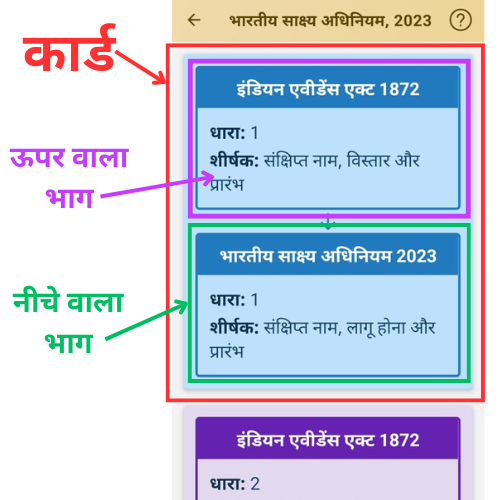
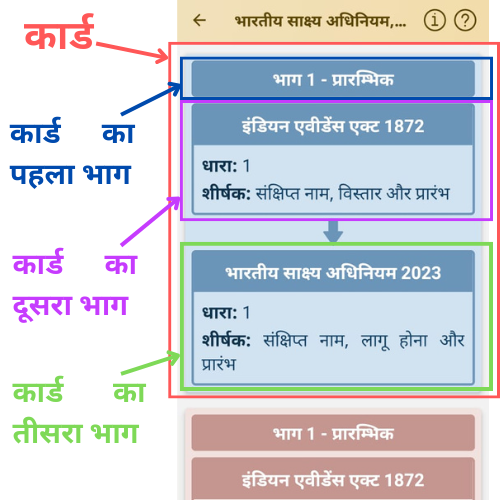
refactor: update howTo data and images

diff --git a/data/sakshyaAdiniyam/howToUseData.js b/data/sakshyaAdiniyam/howToUseData.js
@@ -1,30 +1,46 @@
 export const howToUseSakshyaAdhiniyam = [
-    {
-      id: 1,
-      imgUr: require("../../assets/images/sakshyaAdhiniyamHowToImage_1.png"),
-      title: "भारतीय साक्ष्य अधिनियम, 2023 की स्क्रीन पर उपस्थित कार्ड्स का विवरण",
-      content:
-        'भारतीय साक्ष्य अधिनियम 2023 की स्क्रीन पर आप दोनों कानूनों की सभी धाराएँ दर्शाने वाले कार्ड्स को देख सकते हैं, और अधिक धाराओं को दर्शाने वाले कार्ड्स देखने के लिए आप स्क्रीन को नीचे स्क्रॉल कर सकते हैं। स्क्रीन पर विभिन्न रंगों के कार्ड दिखाई देंगे, जिनमें प्रत्येक कार्ड "इंडियन एवीडेंस एक्ट 1872" और भारतीय साक्ष्य अधिनियम 2023 से संबंधित जानकारी को दर्शाता है। प्रत्येक कार्ड के दो भाग हैं – ऊपर वाला भाग "इंडियन एवीडेंस एक्ट 1872" को दर्शाता है, और नीचे वाला भाग "भारतीय साक्ष्य अधिनियम 2023" की जानकारी प्रदान करता है। आप इसे नीचे दी गई छवि से बेहतर समझ सकते हैं।',
-    },
-    {
-      id: 2,
-      imgUr: require("../../assets/images/sakshyaAdhiniyamHowToImage_2.png"),
-      title: "सर्च बॉक्स के उपयोग से विशेष धारा कैसे खोजें?",
-      content:
-        'भारतीय साक्ष्य अधिनियम 2023 की नई धारा खोजने के लिए आप स्क्रीन के नीचे दिए गए सर्च बॉक्स का उपयोग कर सकते हैं। यदि आपको "भारतीय साक्ष्य अधिनियम 2023" की कोई विशेष धारा खोजनी है, तो आपको सर्च बॉक्स में पुराने "इंडियन एवीडेंस एक्ट 1872" की संबंधित धारा डालनी होगी, सर्च बॉक्स स्क्रीन में नीचे स्थित है। जैसे ही आप पुराने "इंडियन एवीडेंस एक्ट 1872" की धारा सर्च बॉक्स में डालते हैं, उस धारा और उसकी नई धारा वाला कार्ड स्क्रीन पर दिखाई देगा। आप इसे नीचे दी गई छवि से बेहतर समझ सकते हैं।',
-    },
-    {
-      id: 3,
-      imgUr: require("../../assets/images/sakshyaAdhiniyamHowToImage_3.png"),
-      title: "हिंदी कीबोर्ड का उपयोग कैसे करें?",
-      content:
-        'सर्च बॉक्स के साथ ही हिंदी कीबोर्ड का विकल्प भी दिया गया है। सर्च बॉक्स के दाईं ओर एक बटन है, जिसे क्लिक करके आप हिंदी कीबोर्ड प्राप्त कर सकते हैं। इस हिंदी कीबोर्ड में "क", "ख", "ग", "घ", "ङ", "च", "छ" जैसे आवश्यक हिंदी अक्षर हैं, जिनका उपयोग आप धारा जैसे 45क को खोजने के लिए कर सकते हैं। आप इसे नीचे दी गई छवि से बेहतर समझ सकते हैं।',
-    },
-    {
-      id: 4,
-      imgUr: require("../../assets/images/sakshyaAdhiniyamHowToImage_4.png"),
-      title: "सर्च बॉक्स में अमान्य धारा दर्ज करने पर त्रुटि संदेश!",
-      content:
-        "यदि उपयोगकर्ता सर्च बॉक्स में अमान्य धारा दर्ज करता है, तो उसे एक त्रुटि संदेश द्वारा सूचित किया जाएगा कि दर्ज की गई धारा अमान्य है और कृपया सही धारा दर्ज करें। यह संदेश उपयोगकर्ता को यह सुनिश्चित करने में मदद करेगा कि वह सही जानकारी प्राप्त करने के लिए सर्च बॉक्स में मान्य धारा ही दर्ज करे। आप इसे नीचे दी गई छवि से बेहतर समझ सकते हैं।",
-    },
-  ];
+  {
+    id: 1,
+    imgUr: require("../../assets/images/sakshyaAdhiniyamHowToImage_1.png"),
+    title:
+      "भारतीय साक्ष्य अधिनियम, 2023 की स्क्रीन पर उपस्थित कार्ड्स का विवरण",
+    content:
+      'भारतीय साक्ष्य अधिनियम 2023 की स्क्रीन पर आप दोनों कानूनों की सभी धाराएँ दर्शाने वाले कार्ड्स को देख सकते हैं, और अधिक धाराओं को दर्शाने वाले कार्ड्स देखने के लिए आप स्क्रीन को नीचे स्क्रॉल कर सकते हैं। स्क्रीन पर विभिन्न रंगों के कार्ड दिखाई देंगे, जिनमें प्रत्येक कार्ड "इंडियन एवीडेंस एक्ट 1872" और भारतीय साक्ष्य अधिनियम 2023 से संबंधित जानकारी को दर्शाता है। प्रत्येक कार्ड के तीन भाग हैं – पहला भाग यह दर्शाता है कि दोनों धाराएँ किस संबंधित कानून के किस भाग का हिस्सा हैं, कार्ड दूसरा भाग "इंडियन एवीडेंस एक्ट 1872" को दर्शाता है, और कार्ड का तीसरा भाग "भारतीय साक्ष्य अधिनियम 2023" की जानकारी प्रदान करता है। आप इसे नीचे दी गई छवि से बेहतर समझ सकते हैं।',
+  },
+  {
+    id: 2,
+    imgUr: require("../../assets/images/sakshyaAdhiniyamHowToImage_2.png"),
+    title: "सर्च बॉक्स के उपयोग से विशेष धारा कैसे खोजें?",
+    content:
+      'भारतीय साक्ष्य अधिनियम 2023 की नई धारा खोजने के लिए आप स्क्रीन के नीचे दिए गए सर्च बॉक्स का उपयोग कर सकते हैं। यदि आपको "भारतीय साक्ष्य अधिनियम 2023" की कोई विशेष धारा खोजनी है, तो आपको सर्च बॉक्स में पुराने "इंडियन एवीडेंस एक्ट 1872" की संबंधित धारा डालनी होगी, सर्च बॉक्स स्क्रीन में नीचे स्थित है। जैसे ही आप पुराने "इंडियन एवीडेंस एक्ट 1872" की धारा सर्च बॉक्स में डालते हैं, उस धारा और उसकी नई धारा वाला कार्ड स्क्रीन पर दिखाई देगा। आप इसे नीचे दी गई छवि से बेहतर समझ सकते हैं।',
+  },
+  {
+    id: 3,
+    imgUr: require("../../assets/images/sakshyaAdhiniyamHowToImage_3.png"),
+    title: "हिंदी कीबोर्ड का उपयोग कैसे करें?",
+    content:
+      'सर्च बॉक्स के साथ ही हिंदी कीबोर्ड का विकल्प भी दिया गया है। सर्च बॉक्स के दाईं ओर एक बटन है, जिसे क्लिक करके आप हिंदी कीबोर्ड प्राप्त कर सकते हैं। इस हिंदी कीबोर्ड में "क", "ख", "ग", "घ", "ङ", "च", "छ" जैसे आवश्यक हिंदी अक्षर हैं, जिनका उपयोग आप धारा जैसे 45क को खोजने के लिए कर सकते हैं। आप इसे नीचे दी गई छवि से बेहतर समझ सकते हैं।',
+  },
+  {
+    id: 4,
+    imgUr: require("../../assets/images/sakshyaAdhiniyamHowToImage_4.png"),
+    title: "दो विकल्पों के बीच चयन करके नए कानून की धारा खोजें!",
+    content:
+      "सर्च बॉक्स के पास एक बटन है, जब उपयोगकर्ता उस पर क्लिक करता है, तो उसे दो विकल्पों के साथ एक बॉक्स दिखाई देता है। यदि उपयोगकर्ता पहला विकल्प चुनता है, तो वह पुराने कानून की धारा को सर्च बॉक्स में डालकर नई धारा खोज सकता है। और यदि वह दूसरा विकल्प चुनता है, तो वह सीधे नई कानून की धारा डालकर उसे सर्च कर सकता है। आप इसे नीचे दी गई छवि से बेहतर समझ सकते हैं।",
+  },
+  {
+    id: 5,
+    imgUr: require("../../assets/images/sakshyaAdhiniyamHowToImage_5.png"),
+    title:
+      "जब उपयोगकर्ता दूसरा विकल्प चुनते हैं, तो इसके बाद जो प्रक्रिया होती है!",
+    content:
+      "जब उपयोगकर्ता दूसरा विकल्प चुनते हैं, तो वह केवल नए धारा को सर्च कर सकते हैं और उसे सर्च बॉक्स में डालकर उसके संबंधित जानकारी प्राप्त कर सकते हैं, और इसके बाद कार्ड केवल नए धारा की जानकारी ही दिखाएगा। आप इसे नीचे दी गई छवि से बेहतर समझ सकते हैं।",
+  },
+  {
+    id: 6,
+    imgUr: require("../../assets/images/sakshyaAdhiniyamHowToImage_6.png"),
+    title: "सर्च बॉक्स में अमान्य धारा दर्ज करने पर त्रुटि संदेश!",
+    content:
+      "यदि उपयोगकर्ता सर्च बॉक्स में अमान्य धारा दर्ज करता है, तो उसे एक त्रुटि संदेश द्वारा सूचित किया जाएगा कि दर्ज की गई धारा अमान्य है और कृपया सही धारा दर्ज करें। यह संदेश उपयोगकर्ता को यह सुनिश्चित करने में मदद करेगा कि वह सही जानकारी प्राप्त करने के लिए सर्च बॉक्स में मान्य धारा ही दर्ज करे। आप इसे नीचे दी गई छवि से बेहतर समझ सकते हैं।",
+  },
+];
